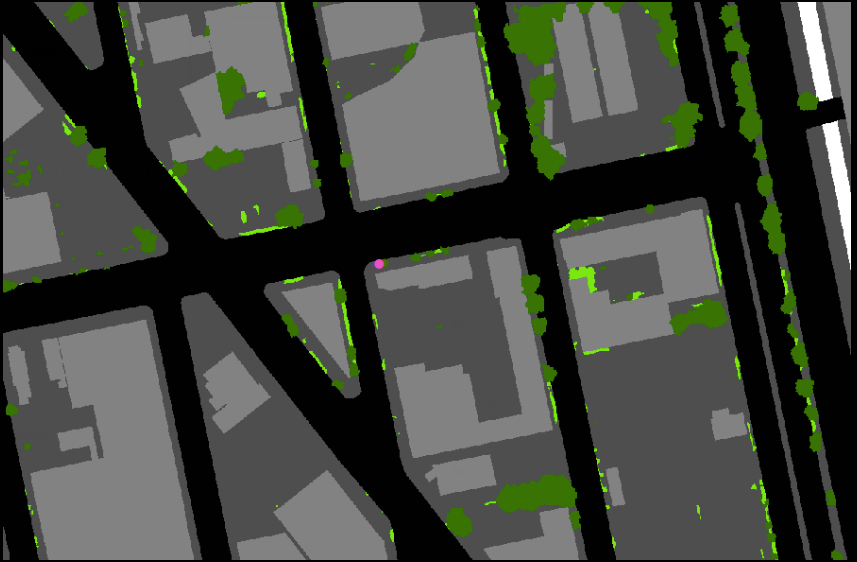
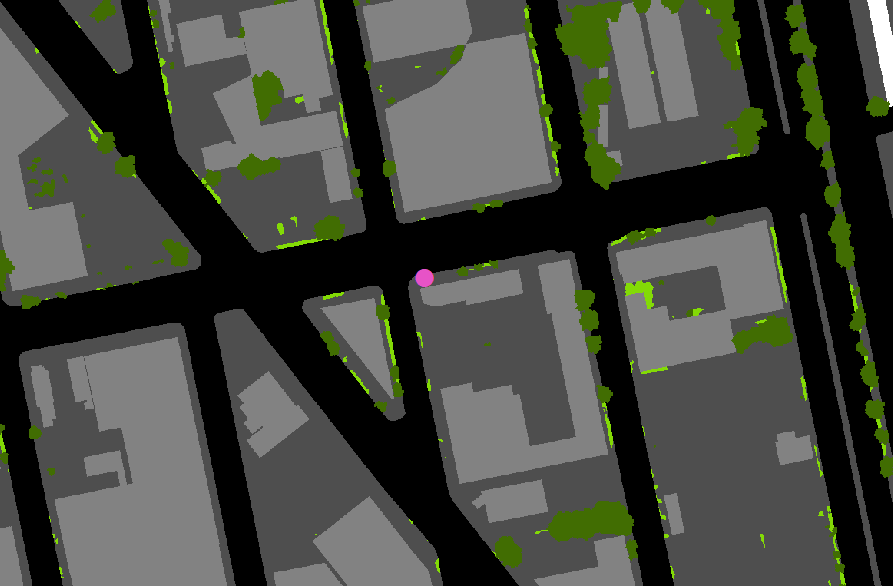
Revised lidar imagery

diff --git a/Closerlook/localtemp/index.html b/Closerlook/localtemp/index.html
@@ -200,9 +200,9 @@
     }
 
     .pinkdot {
-        width: 5px;
-        height: 5px;
-        margin-left: 5px;
+        width: 8px;
+        height: 8px;
+        margin-left: 3px;
         margin-right: 7px;
         border-radius: 5px;
         background-color: hotpink;
@@ -492,7 +492,7 @@
                                         <p>These satellite images show:
                                         <ul style="list-style-type: none">
                                             <li>
-                                                <div class="pinkdot"></div>&nbsp;Location of air temperature
+                                                <div class="pinkdot"></div>&nbsp;Air temperature
                                                 monitor
                                             </li>
                                             <li><span class="justabox" style="background-color: lightgray"></span>
@@ -512,7 +512,7 @@
                                     </div>
 
                                     <div class="col-md-6">
-                                        <img src="images/lindarnote.png" class="img-fluid my-2">
+                                        <img src="images/lidarnote1.png" class="img-fluid my-2">
                                         <p>To measure characteristics of blocks where we were monitoring
                                             temperature, we
                                             looked
@@ -521,7 +521,9 @@
                                             one building, across the side walk and street, to the buildings on the
                                             other
                                             side of
-                                            the street - or, between the blue lines on the image above.</p>
+                                            the street - or, <span style="border-bottom: 2px solid rgb(57, 158, 240);">
+                                                between the
+                                                blue lines </span> on the image above.</p>
                                     </div>
                                 </div>
 
@@ -581,7 +583,7 @@
                                     <div class="col-md-6">
                                         <span class="">Brownsville, Brooklyn</span>
 
-                                        <img src="images/Bk-BR_12_lidar.png" class="img-fluid">
+                                        <img src="images/Bk-BR_12_lidar_bigger.png" class="img-fluid">
                                         <table class="table">
                                             <thead>
                                                 <tr>
@@ -629,7 +631,7 @@
                                     <div class="col-md-6">
 
                                         <span class="">Edenwald, the Bronx</span>
-                                        <img src="images/Bx-EC_07_lidar.png" class="img-fluid">
+                                        <img src="images/Bx-EC_07_lidar_bigger.png" class="img-fluid">
                                         <table class="table" style="color: black!important;">
                                             <thead>
                                                 <tr>
@@ -838,7 +840,7 @@
 
                                         </div>
 
-                                        <div class="col mt-2">
+                                        <div class="col mt-1">
                                             <div class="card">
 
                                                 <a class="card-header collapse collapsed" id="acc-button-06"
